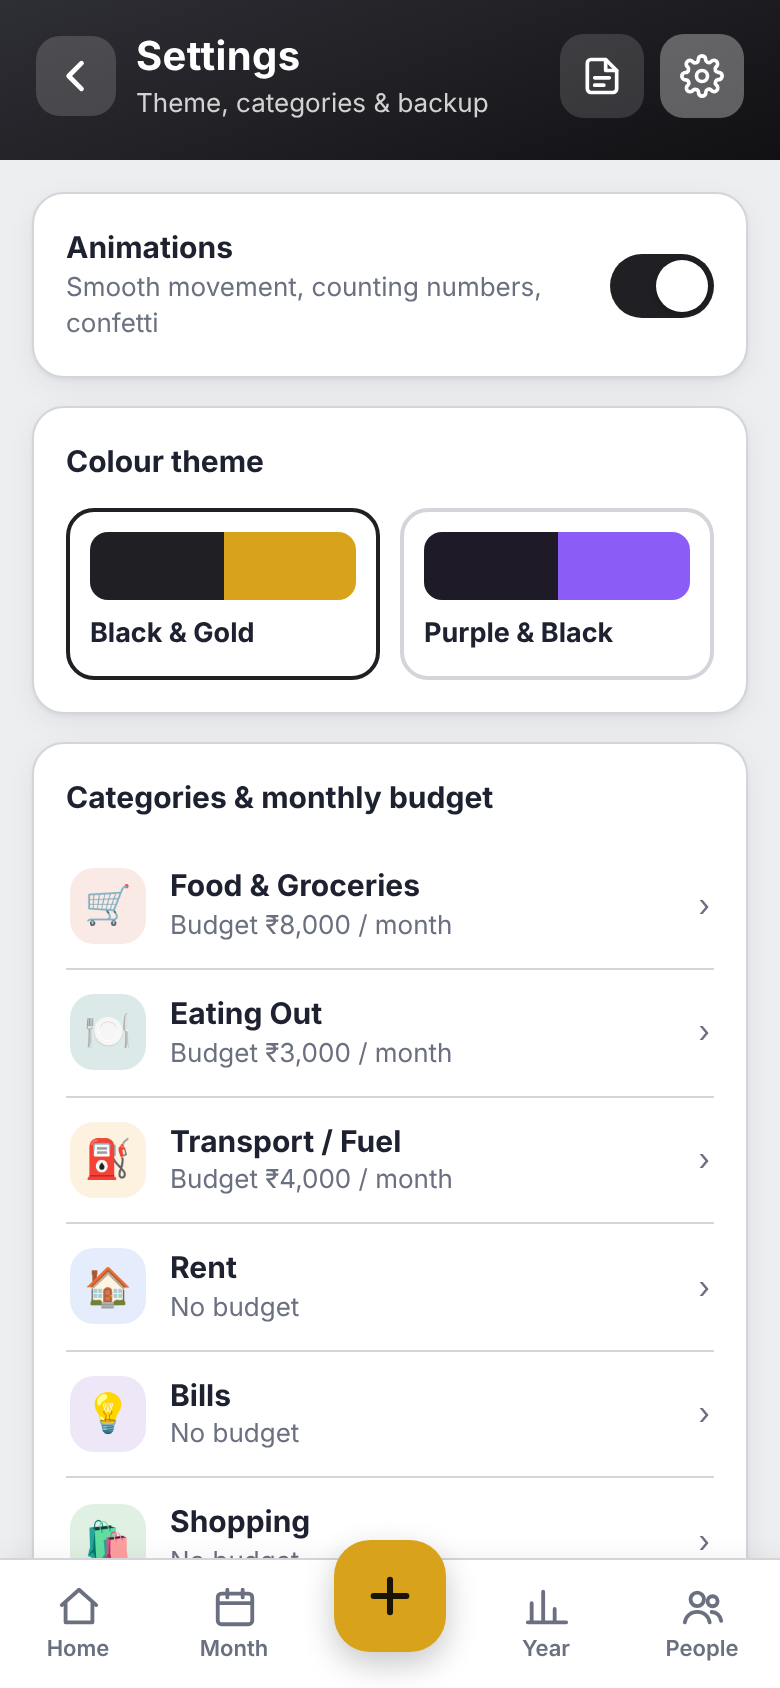
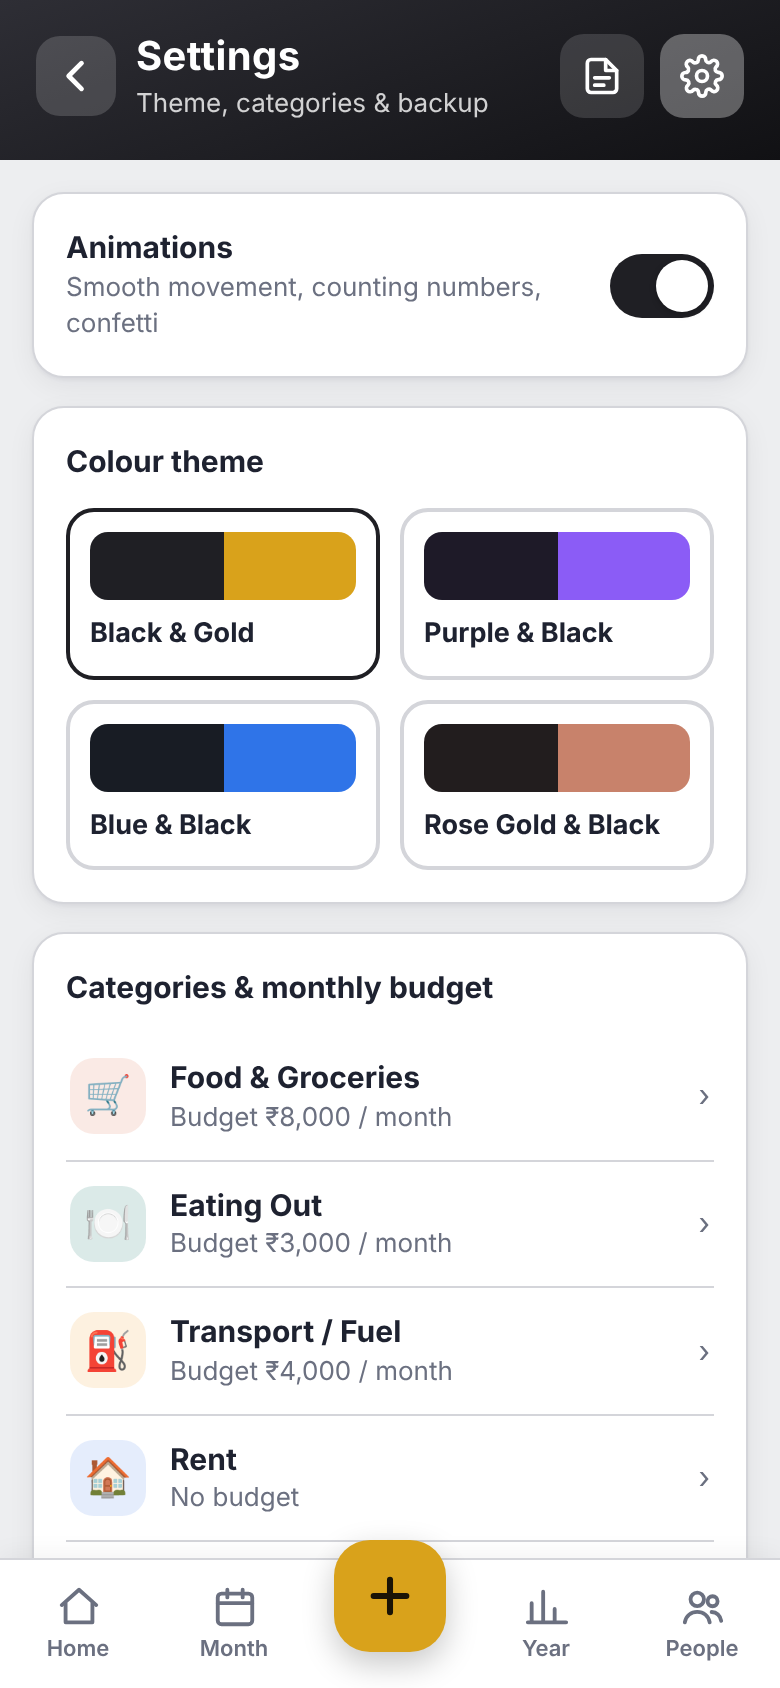
Themes: add Blue & Black and Rose Gold & Black (4 themes); keep chart colours apart from your own colour

Changed region(s): [[0.0308, 0.4005, 0.9538, 0.9242]]

diff --git a/index.html b/index.html
@@ -17,6 +17,8 @@
 /* ---- colour themes: P = main colour, PD = main colour in dark mode, A = accent, T = third, H1/H2 = header ---- */
 [data-theme="gold"]  {--P:#1F1F24;--PD:#E2B64B;--A:#D9A21B;--T:#2F9E6E;--H1:#2E2E35;--H2:#111114;--onP:#fff;--onPD:#1A1406;--onA:#1A1406}
 [data-theme="purple"]{--P:#1E1A28;--PD:#B69CFF;--A:#8B5CF6;--T:#2F9E6E;--H1:#2B2338;--H2:#0F0C15;--onP:#fff;--onPD:#1A1033;--onA:#fff}
+[data-theme="blue"]  {--P:#181C24;--PD:#8DB8FF;--A:#2F74E8;--T:#2F9E6E;--H1:#232A36;--H2:#0B0E14;--onP:#fff;--onPD:#0A1830;--onA:#fff}
+[data-theme="rose"]  {--P:#221D1E;--PD:#EDB4A2;--A:#C8826B;--T:#2F9E6E;--H1:#312A2B;--H2:#131011;--onP:#fff;--onPD:#2A140E;--onA:#1F0F0A}
 :root{
   --bg:#F5F6F8; --card:#FFFFFF; --text:#1E2230; --muted:#6B7080; --line:#E7E8EE;
   --pri:var(--P); --on-pri:var(--onP); --acc:var(--A); --on-acc:var(--onA); --third:var(--T); --big:var(--H2);
@@ -420,7 +422,9 @@ const YOU = "You";
 const DEFAULT_THEME = "gold";
 const THEMES = {
   gold:   {name:"Black & Gold",   c:["#1F1F24","#D9A21B"], bar:"#111114"},
-  purple: {name:"Purple & Black", c:["#1E1A28","#8B5CF6"], bar:"#0F0C15"}
+  purple: {name:"Purple & Black", c:["#1E1A28","#8B5CF6"], bar:"#0F0C15"},
+  blue:   {name:"Blue & Black",   c:["#181C24","#2F74E8"], bar:"#0B0E14"},
+  rose:   {name:"Rose Gold & Black", c:["#221D1E","#C8826B"], bar:"#131011"}
 };
 function applyTheme(){
   const t = THEMES[D.settings.theme] ? D.settings.theme : DEFAULT_THEME;
@@ -1383,8 +1387,15 @@ function normWho(n){ n = (n||"").trim(); return (!n || /^(me|you|myself|self)$/i
 function personColor(name){
   if(name===YOU) return "var(--pri)";
   let h=0; for(const ch of name.toLowerCase()) h=(h*31+ch.charCodeAt(0))>>>0;
+  // skip colours that look too much like your own ("You") colour in the current theme
+  const me = hexRGB(getComputedStyle(document.documentElement).getPropertyValue("--pri").trim());
+  for(let k=0;k<AV_COLORS.length;k++){
+    const c = AV_COLORS[(h+k) % AV_COLORS.length], o = hexRGB(c);
+    if(!me || !o || Math.hypot(me[0]-o[0], me[1]-o[1], me[2]-o[2]) > 110) return c;
+  }
   return AV_COLORS[h % AV_COLORS.length];
 }
+function hexRGB(x){ const m=/^#([0-9a-f]{6})$/i.exec(x||""); if(!m) return null; const n=parseInt(m[1],16); return [n>>16&255, n>>8&255, n&255]; }
 function initials(name){ return name===YOU ? "You" : (name.trim().split(/\s+/).slice(0,2).map(w=>w[0]||"").join("").toUpperCase() || "?"); }
 function projTotals(pid){
   const inv = sum(movesOf(pid,"invest")), pro = sum(movesOf(pid,"profit")), out = sum(movesOf(pid,"payout"));

diff --git a/sw.js b/sw.js
@@ -1,6 +1,6 @@
 // Offline support: keeps a copy of the app files on the device.
 // Your expense data is NOT here — it lives only in the app's local storage.
-const CACHE = "expense-app-v15";
+const CACHE = "expense-app-v16";
 const FILES = [
   "./",
   "./index.html",

diff --git a/README.md b/README.md
@@ -81,7 +81,7 @@
 - Saves while you type. Pin, search, share and delete notes.
 
 ### 🎨 Look & feel
-- 2 colour themes: **Black & Gold** (default) and **Purple & Black**.
+- 4 colour themes: **Black & Gold** (default), **Purple & Black**, **Blue & Black** and **Rose Gold & Black**.
 - Automatic **dark mode**.
 - Smooth animations: counting numbers, growing charts, confetti when you settle up. You can switch them off.
 
@@ -113,11 +113,15 @@
 </table>
 
 <details>
-<summary><b>More screenshots: Purple & Black theme, settings, Windows</b></summary>
+<summary><b>More screenshots: other themes, settings, Windows</b></summary>
 <br>
 <table>
   <tr>
     <td align="center"><img src="screenshots/theme-purple.png" width="200"><br><sub>Purple & Black</sub></td>
+    <td align="center"><img src="screenshots/theme-blue.png" width="200"><br><sub>Blue & Black</sub></td>
+    <td align="center"><img src="screenshots/theme-rose.png" width="200"><br><sub>Rose Gold & Black</sub></td>
+  </tr>
+  <tr>
     <td align="center"><img src="screenshots/theme-purple-dark.png" width="200"><br><sub>Purple & Black (dark mode)</sub></td>
     <td align="center"><img src="screenshots/11-settings.png" width="200"><br><sub>Settings</sub></td>
   </tr>
